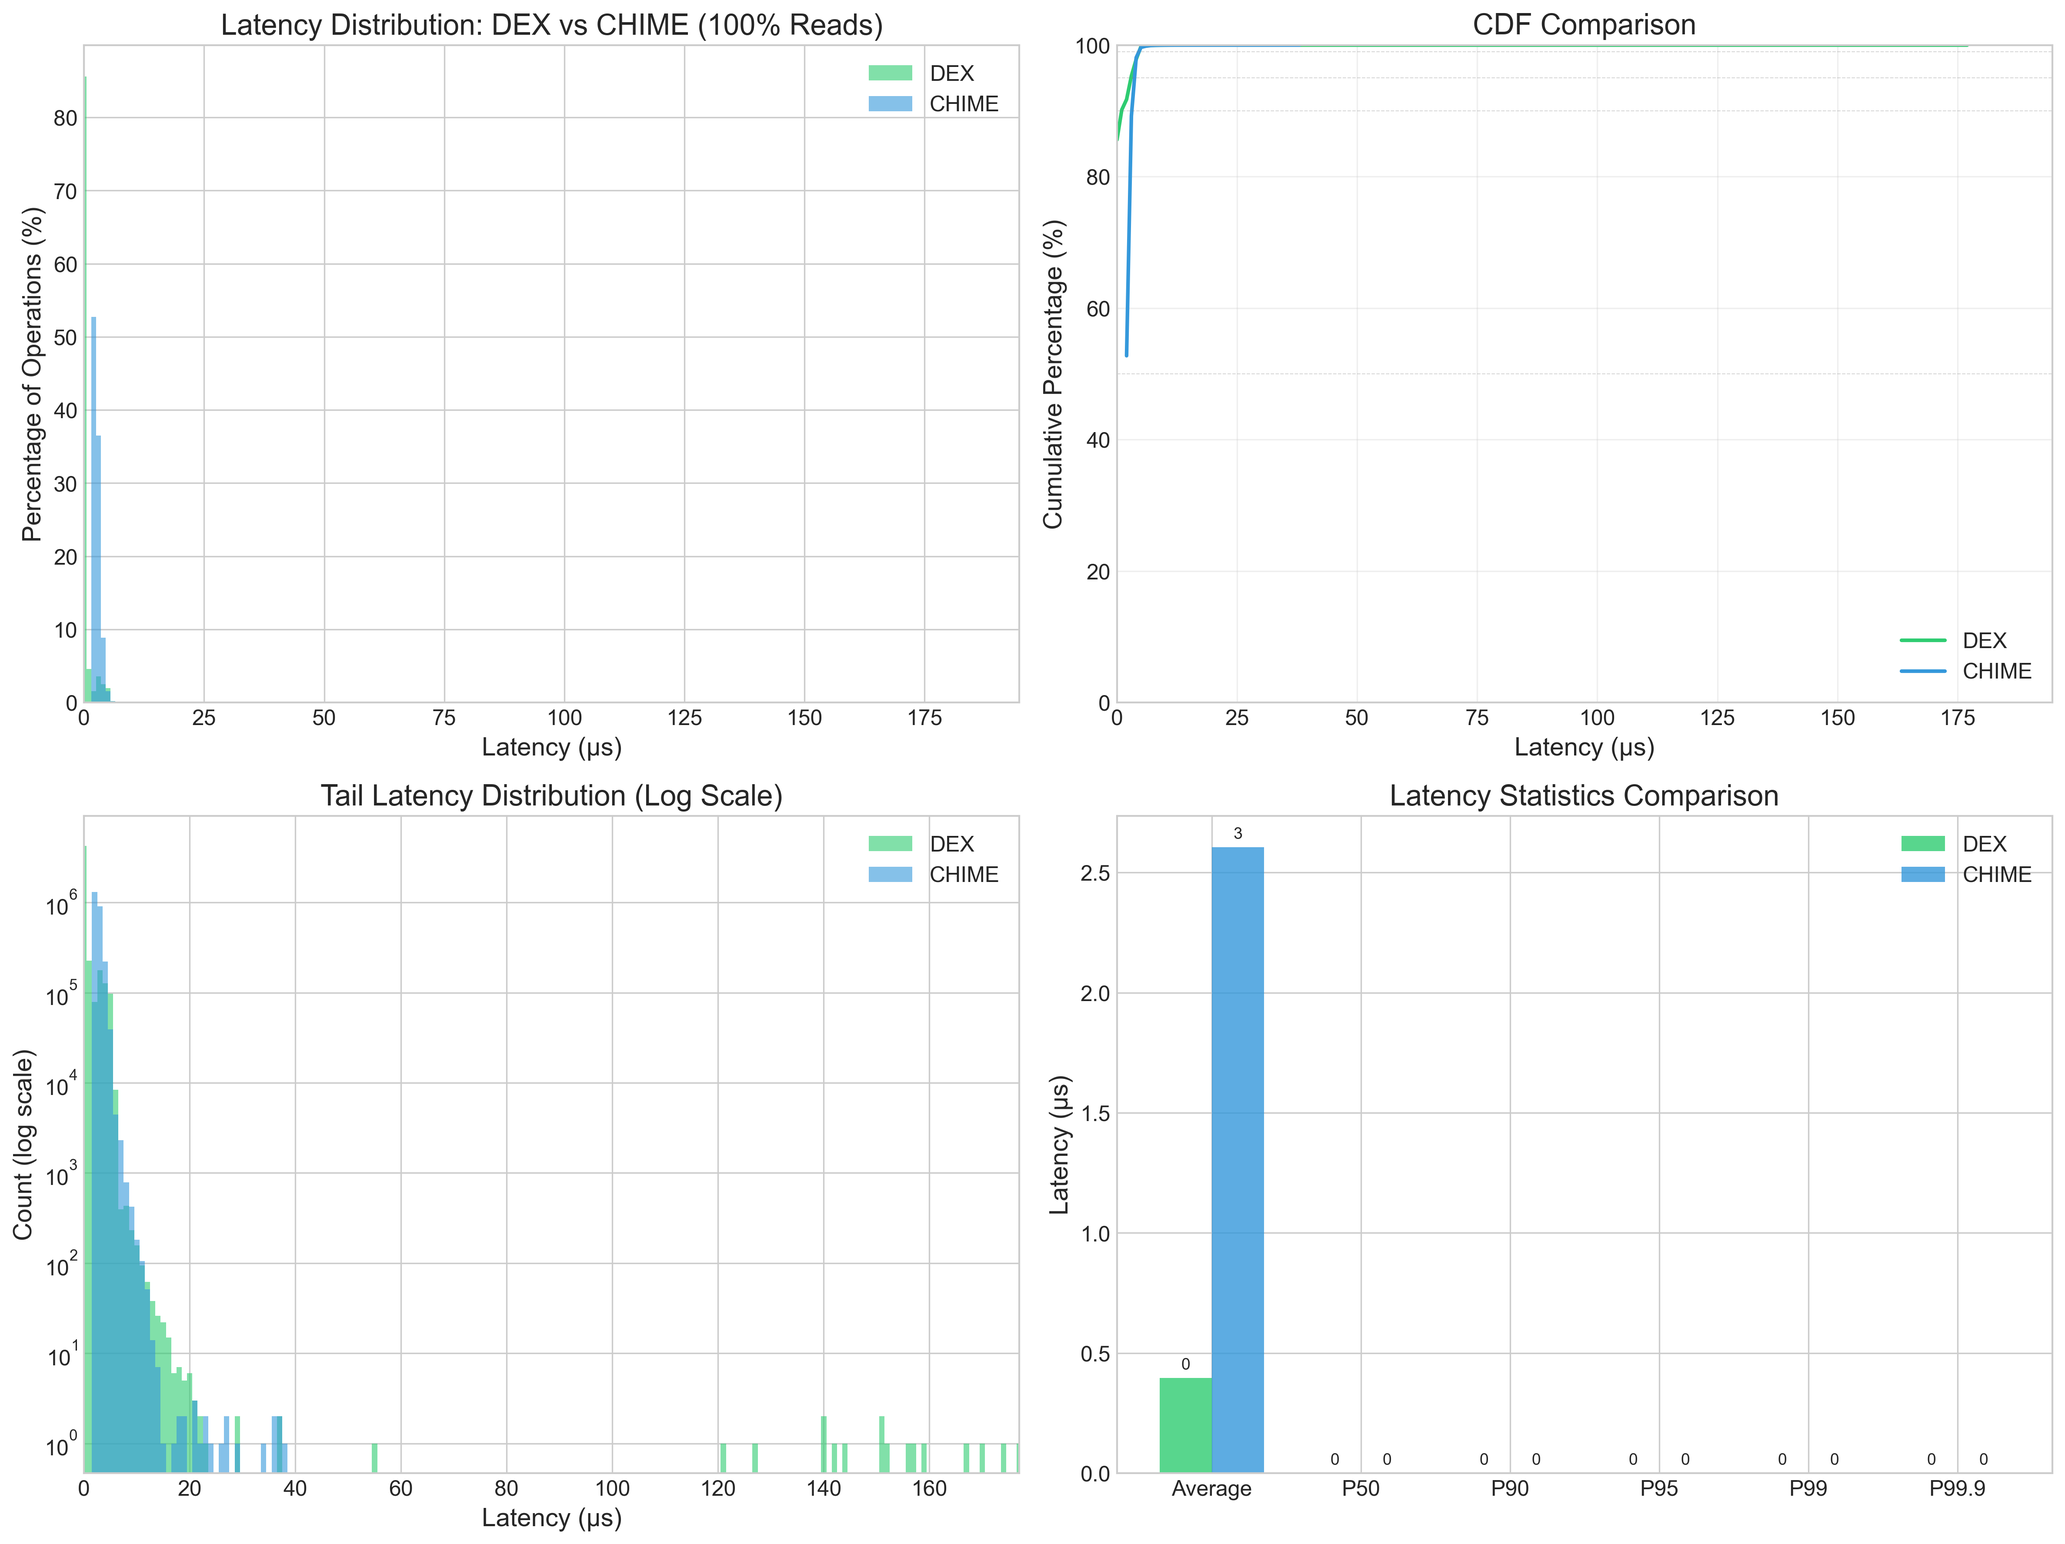
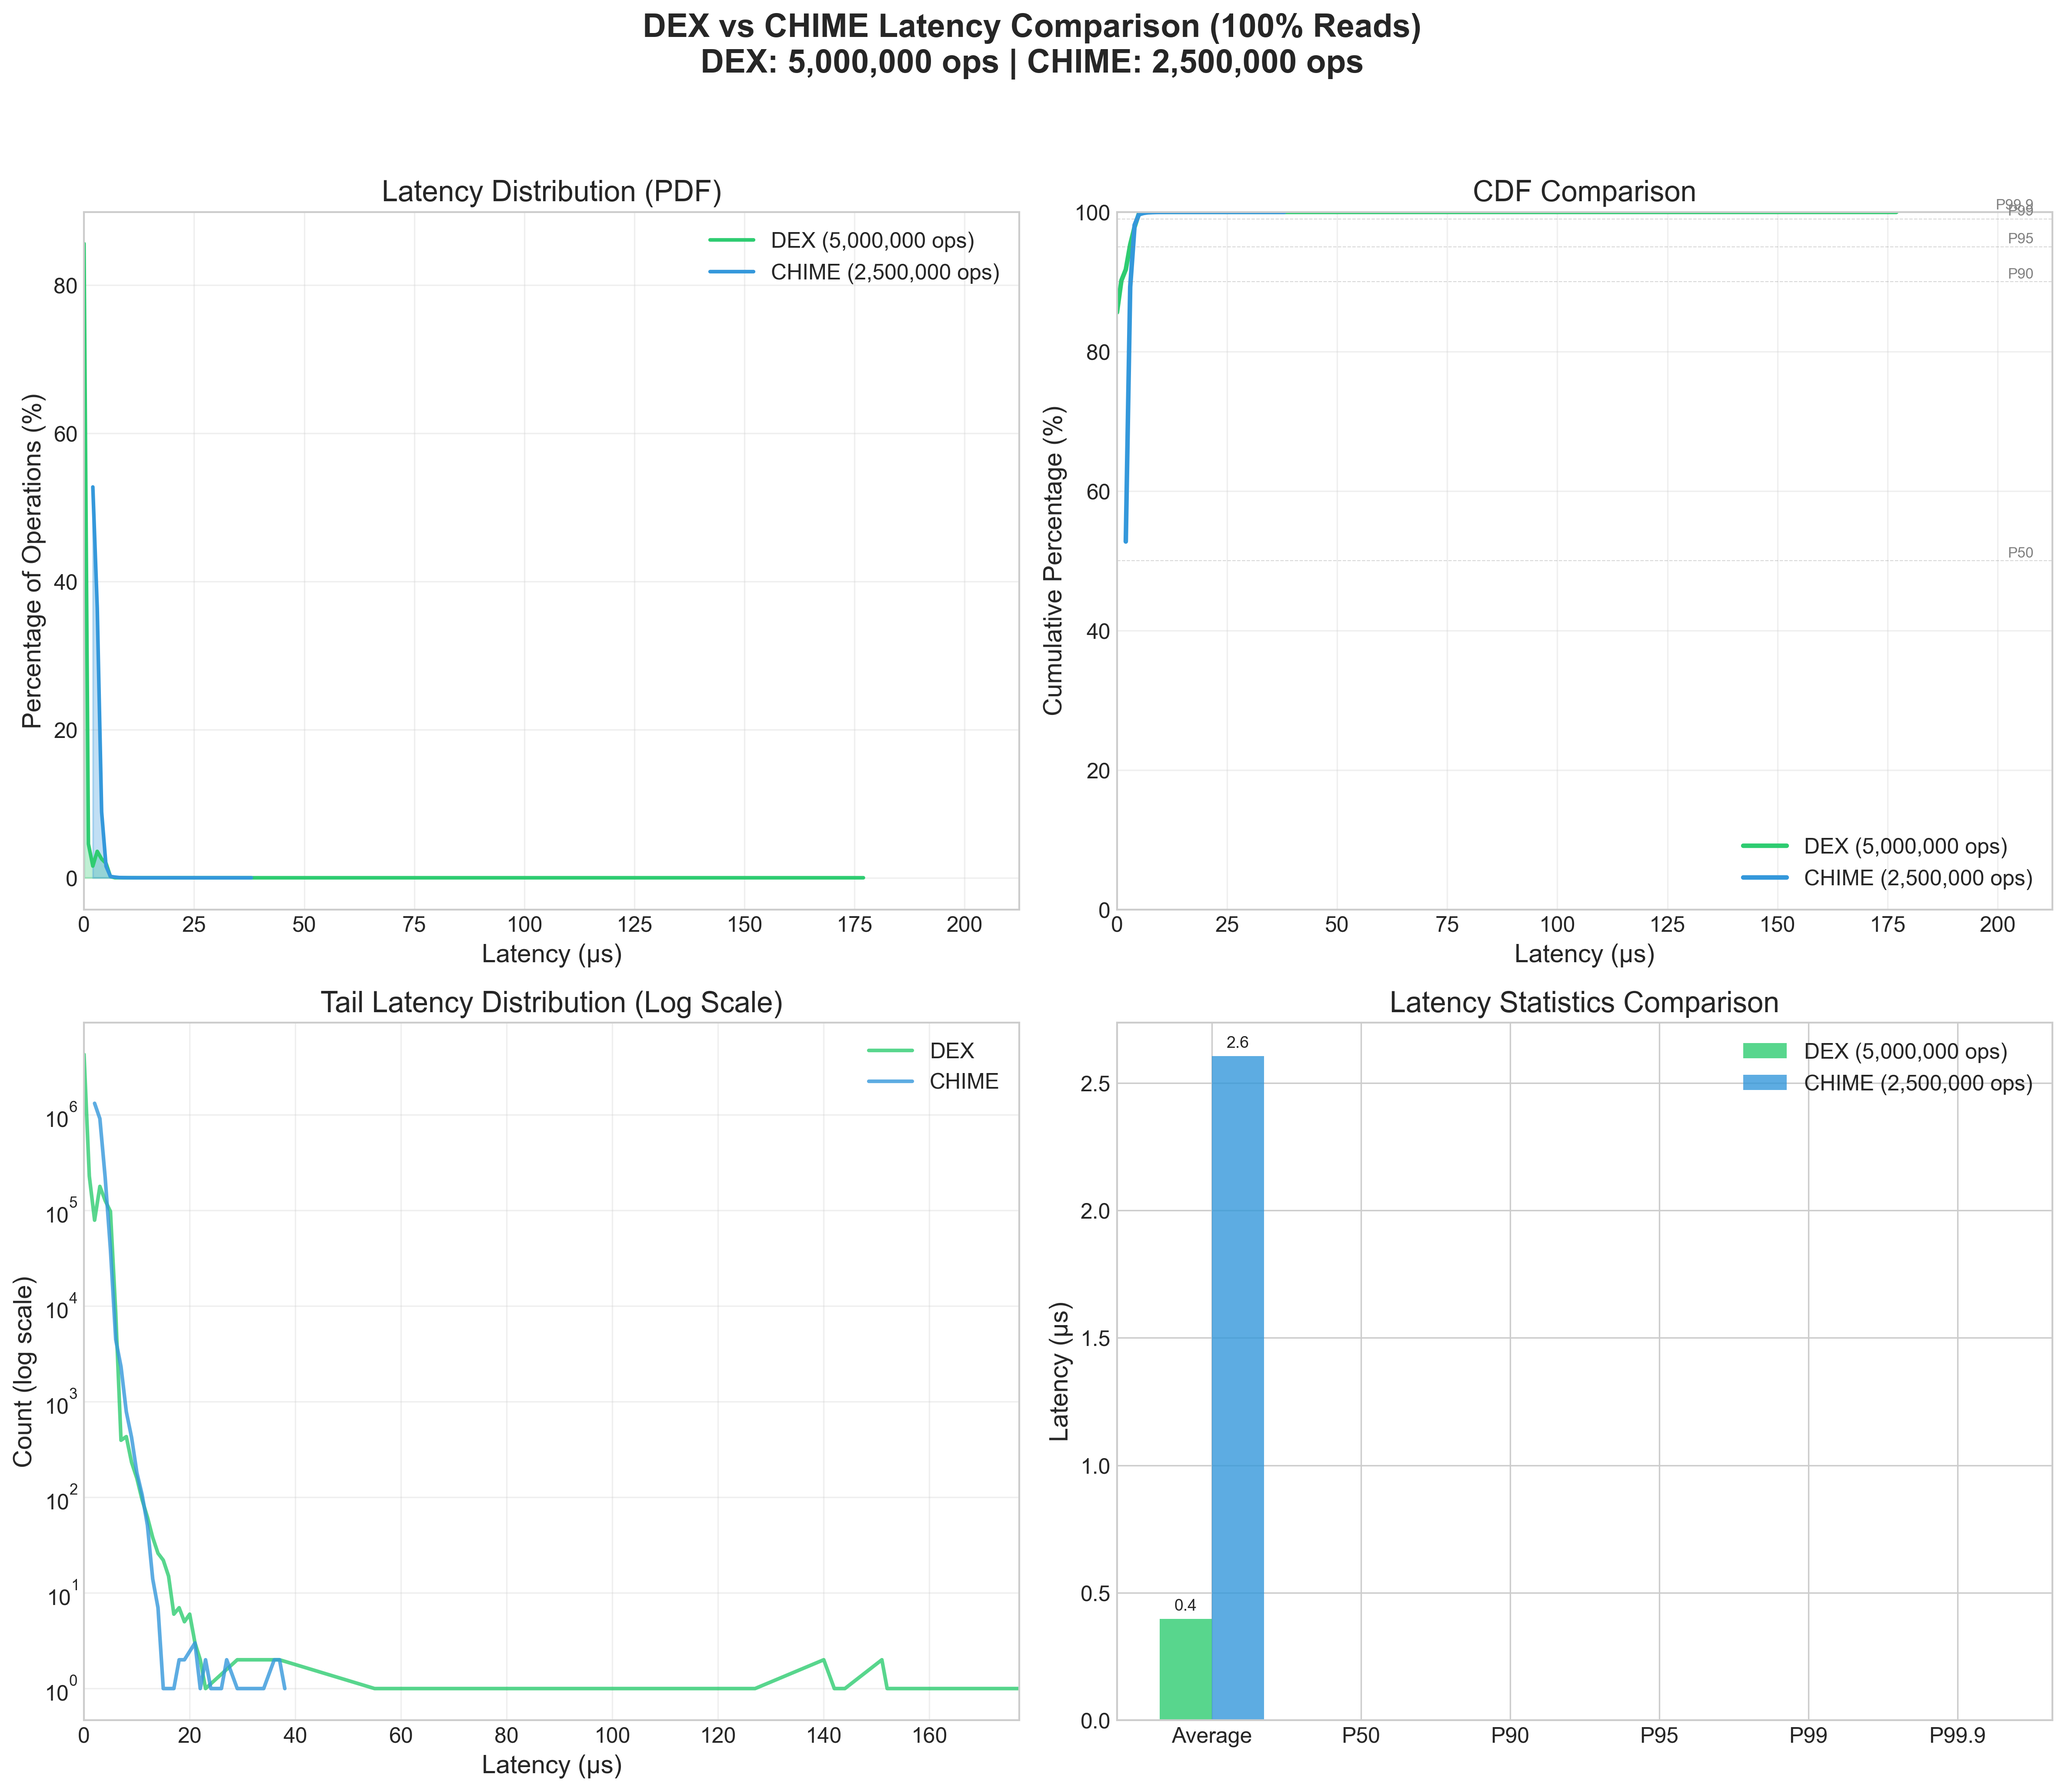
Fix CHIME: all nodes run same code like ycsb_test.cpp

diff --git a/experiments/latency_comparison/plot_latency_comparison.py b/experiments/latency_comparison/plot_latency_comparison.py
@@ -127,6 +127,7 @@ def expand_histogram(latencies, counts, max_samples=100000):
 def plot_histogram_comparison(dex_data, chime_data, output_path='latency_comparison.png'):
     """
     Create comprehensive latency comparison plots with operation counts.
+    Uses line plots for better visibility of the complete curve.
     """
     dex_lat, dex_cnt, dex_stats = dex_data
     chime_lat, chime_cnt, chime_stats = chime_data
@@ -150,6 +151,14 @@ def plot_histogram_comparison(dex_data, chime_data, output_path='latency_compari
     else:
         chime_lat_us = chime_lat.astype(float)
     
+    # Sort data by latency for proper line plotting
+    dex_sort_idx = np.argsort(dex_lat_us)
+    chime_sort_idx = np.argsort(chime_lat_us)
+    dex_lat_sorted = dex_lat_us[dex_sort_idx]
+    dex_cnt_sorted = dex_cnt[dex_sort_idx]
+    chime_lat_sorted = chime_lat_us[chime_sort_idx]
+    chime_cnt_sorted = chime_cnt[chime_sort_idx]
+    
     # Create figure with multiple subplots
     fig = plt.figure(figsize=(16, 14))
     
@@ -160,57 +169,62 @@ def plot_histogram_comparison(dex_data, chime_data, output_path='latency_compari
         fontsize=18, fontweight='bold', y=0.98
     )
     
-    # 1. Superimposed Histogram (main plot)
+    # 1. PDF Line Plot (main plot)
     ax1 = fig.add_subplot(2, 2, 1)
     
     # Determine reasonable x-axis range (up to P99.9)
     dex_p999 = dex_stats.get('p999', np.max(dex_lat_us))
     chime_p999 = chime_stats.get('p999', np.max(chime_lat_us))
-    max_lat = max(dex_p999, chime_p999) * 1.1
+    if dex_unit == 'ns':
+        dex_p999 /= 1000.0
+    if chime_unit == 'ns':
+        chime_p999 /= 1000.0
+    max_lat = max(dex_p999, chime_p999) * 1.2
+    if max_lat == 0:
+        max_lat = max(np.max(dex_lat_us), np.max(chime_lat_us)) * 1.1
     
     # Filter data for plotting
-    dex_mask = dex_lat_us <= max_lat
-    chime_mask = chime_lat_us <= max_lat
+    dex_mask = dex_lat_sorted <= max_lat
+    chime_mask = chime_lat_sorted <= max_lat
     
-    # Normalize to probability density
-    ax1.bar(dex_lat_us[dex_mask], dex_cnt[dex_mask] / dex_total * 100, 
-            width=0.5, alpha=0.6, label=f'DEX ({dex_total:,} ops)', color='#2ecc71', edgecolor='none')
-    ax1.bar(chime_lat_us[chime_mask], chime_cnt[chime_mask] / chime_total * 100, 
-            width=0.5, alpha=0.6, label=f'CHIME ({chime_total:,} ops)', color='#3498db', edgecolor='none')
+    # Normalize to probability density (percentage)
+    dex_pct = dex_cnt_sorted / dex_total * 100
+    chime_pct = chime_cnt_sorted / chime_total * 100
+    
+    # Line plots with filled area
+    ax1.fill_between(dex_lat_sorted[dex_mask], dex_pct[dex_mask], 
+                     alpha=0.3, color='#2ecc71')
+    ax1.plot(dex_lat_sorted[dex_mask], dex_pct[dex_mask], 
+             label=f'DEX ({dex_total:,} ops)', color='#2ecc71', linewidth=2)
+    
+    ax1.fill_between(chime_lat_sorted[chime_mask], chime_pct[chime_mask], 
+                     alpha=0.3, color='#3498db')
+    ax1.plot(chime_lat_sorted[chime_mask], chime_pct[chime_mask], 
+             label=f'CHIME ({chime_total:,} ops)', color='#3498db', linewidth=2)
     
     ax1.set_xlabel('Latency (μs)')
     ax1.set_ylabel('Percentage of Operations (%)')
-    ax1.set_title('Latency Distribution')
+    ax1.set_title('Latency Distribution (PDF)')
     ax1.legend(loc='upper right')
     ax1.set_xlim(0, max_lat)
-    
-    # Add percentile lines
-    for name, stats, color, ls in [('DEX', dex_stats, '#27ae60', '--'), ('CHIME', chime_stats, '#2980b9', ':')]:
-        p50 = stats.get('p50', 0)
-        p99 = stats.get('p99', 0)
-        if stats.get('unit', 'us') == 'ns':
-            p50 /= 1000.0
-            p99 /= 1000.0
-        if p50 > 0:
-            ax1.axvline(x=p50, color=color, linestyle=ls, alpha=0.7, linewidth=1.5, label=f'{name} P50')
-        if p99 > 0:
-            ax1.axvline(x=p99, color=color, linestyle=ls, alpha=0.5, linewidth=1.5)
+    ax1.grid(True, alpha=0.3)
     
     # 2. CDF Comparison
     ax2 = fig.add_subplot(2, 2, 2)
     
     # Calculate CDFs
-    dex_cdf = np.cumsum(dex_cnt) / dex_total * 100
-    chime_cdf = np.cumsum(chime_cnt) / chime_total * 100
+    dex_cdf = np.cumsum(dex_cnt_sorted) / dex_total * 100
+    chime_cdf = np.cumsum(chime_cnt_sorted) / chime_total * 100
     
-    ax2.plot(dex_lat_us[dex_mask], dex_cdf[dex_mask], 
-             label=f'DEX ({dex_total:,} ops)', color='#2ecc71', linewidth=2)
-    ax2.plot(chime_lat_us[chime_mask], chime_cdf[chime_mask], 
-             label=f'CHIME ({chime_total:,} ops)', color='#3498db', linewidth=2)
+    ax2.plot(dex_lat_sorted[dex_mask], dex_cdf[dex_mask], 
+             label=f'DEX ({dex_total:,} ops)', color='#2ecc71', linewidth=2.5)
+    ax2.plot(chime_lat_sorted[chime_mask], chime_cdf[chime_mask], 
+             label=f'CHIME ({chime_total:,} ops)', color='#3498db', linewidth=2.5)
     
     # Add horizontal lines for common percentiles
     for p in [50, 90, 95, 99, 99.9]:
         ax2.axhline(y=p, color='gray', linestyle='--', alpha=0.3, linewidth=0.5)
+        ax2.text(max_lat * 0.98, p + 0.5, f'P{p}', fontsize=8, color='gray', ha='right')
     
     ax2.set_xlabel('Latency (μs)')
     ax2.set_ylabel('Cumulative Percentage (%)')
@@ -220,18 +234,25 @@ def plot_histogram_comparison(dex_data, chime_data, output_path='latency_compari
     ax2.set_ylim(0, 100)
     ax2.grid(True, alpha=0.3)
     
-    # 3. Log-scale histogram for tail latency
+    # 3. Log-scale line plot for tail latency
     ax3 = fig.add_subplot(2, 2, 3)
     
-    ax3.bar(dex_lat_us, dex_cnt, width=0.5, alpha=0.6, label=f'DEX', color='#2ecc71', edgecolor='none')
-    ax3.bar(chime_lat_us, chime_cnt, width=0.5, alpha=0.6, label=f'CHIME', color='#3498db', edgecolor='none')
+    # Use wider range for tail view
+    tail_max = min(max(np.max(dex_lat_us), np.max(chime_lat_us)), 1000)
+    dex_tail_mask = dex_lat_sorted <= tail_max
+    chime_tail_mask = chime_lat_sorted <= tail_max
+    
+    ax3.semilogy(dex_lat_sorted[dex_tail_mask], dex_cnt_sorted[dex_tail_mask], 
+                 label='DEX', color='#2ecc71', linewidth=2, alpha=0.8)
+    ax3.semilogy(chime_lat_sorted[chime_tail_mask], chime_cnt_sorted[chime_tail_mask], 
+                 label='CHIME', color='#3498db', linewidth=2, alpha=0.8)
     
     ax3.set_xlabel('Latency (μs)')
     ax3.set_ylabel('Count (log scale)')
     ax3.set_title('Tail Latency Distribution (Log Scale)')
-    ax3.set_yscale('log')
     ax3.legend(loc='upper right')
-    ax3.set_xlim(0, min(max(np.max(dex_lat_us), np.max(chime_lat_us)), 10000))
+    ax3.set_xlim(0, tail_max)
+    ax3.grid(True, alpha=0.3)
     
     # 4. Statistics comparison bar chart
     ax4 = fig.add_subplot(2, 2, 4)
@@ -287,18 +308,27 @@ def plot_histogram_comparison(dex_data, chime_data, output_path='latency_compari
     # Also save individual plots
     base_name = output_path.rsplit('.', 1)[0]
     
-    # Save histogram only with operation counts
+    # Save PDF line plot with operation counts
     fig_hist, ax_hist = plt.subplots(figsize=(12, 7))
-    ax_hist.bar(dex_lat_us[dex_mask], dex_cnt[dex_mask] / dex_total * 100, 
-                width=0.5, alpha=0.7, label=f'DEX ({dex_total:,} ops)', color='#2ecc71', edgecolor='none')
-    ax_hist.bar(chime_lat_us[chime_mask], chime_cnt[chime_mask] / chime_total * 100, 
-                width=0.5, alpha=0.7, label=f'CHIME ({chime_total:,} ops)', color='#3498db', edgecolor='none')
+    
+    # Line plot with filled area for better visibility
+    ax_hist.fill_between(dex_lat_sorted[dex_mask], dex_pct[dex_mask], 
+                         alpha=0.3, color='#2ecc71')
+    ax_hist.plot(dex_lat_sorted[dex_mask], dex_pct[dex_mask], 
+                 label=f'DEX ({dex_total:,} ops)', color='#2ecc71', linewidth=2.5)
+    
+    ax_hist.fill_between(chime_lat_sorted[chime_mask], chime_pct[chime_mask], 
+                         alpha=0.3, color='#3498db')
+    ax_hist.plot(chime_lat_sorted[chime_mask], chime_pct[chime_mask], 
+                 label=f'CHIME ({chime_total:,} ops)', color='#3498db', linewidth=2.5)
+    
     ax_hist.set_xlabel('Latency (μs)', fontsize=14)
     ax_hist.set_ylabel('Percentage of Operations (%)', fontsize=14)
     ax_hist.set_title(f'Latency Distribution: DEX vs CHIME (100% Reads)\n'
                       f'DEX: {dex_total:,} ops | CHIME: {chime_total:,} ops', fontsize=16)
     ax_hist.legend(loc='upper right', fontsize=12)
     ax_hist.set_xlim(0, max_lat)
+    ax_hist.grid(True, alpha=0.3)
     
     # Add text box with summary stats
     dex_avg = dex_stats.get('avg', 0)

diff --git a/CHIME/test/microbench_latency.cpp b/CHIME/test/microbench_latency.cpp
@@ -576,7 +576,7 @@ void parse_args(int argc, char *argv[]) {
 }
 
 // ============================================
-// Main
+// Main - ALL nodes run same code (like ycsb_test.cpp)
 // ============================================
 int main(int argc, char *argv[]) {
     parse_args(argc, argv);
@@ -584,7 +584,7 @@ int main(int argc, char *argv[]) {
     // Initialize latency histograms
     memset(latency_histogram, 0, sizeof(latency_histogram));
     
-    // Initialize DSM
+    // Initialize DSM - same for all nodes
     DSMConfig config;
     config.machineNR = kNodeCount;
     config.threadNR = kMaxThread;
@@ -593,43 +593,24 @@ int main(int argc, char *argv[]) {
     node_id = dsm->getMyNodeID();
     kThreadCount = kMaxThread;
     
-    // In CHIME: Node 0 is MEMORY server, Nodes 1+ are COMPUTE nodes
-    // (opposite of DEX where node 0 is compute)
-    if (node_id < MEMORY_NODE_NUM) {
-        printf("Node %d: Memory node\n", node_id);
-        
-        // Memory node needs to register and create tree for root initialization
-        bindCore(0);
-        dsm->registerThread();
-        
-        // Create tree with root initialization (only memory node does this)
-        Tree* mem_tree = new Tree(dsm, 0, true);
-        printf("Node %d: Tree root initialized\n", node_id);
-        
-        // Memory node participates in barriers matching compute node
-        dsm->barrier("benchmark");      // Initial sync
-        dsm->barrier("load_finish");    // After bulk load
-        dsm->barrier("warmup_finish");  // After warmup
-        dsm->barrier("fin");            // Final sync
-        printf("Node %d: Memory node done\n", node_id);
-        return 0;
-    }
+    printf("Node %d starting (total nodes: %d)\n", node_id, kNodeCount);
     
-    printf("Node %d: Compute node, starting benchmark\n", node_id);
-    
-    // Use modulo to handle systems with fewer cores
+    // Bind core and register thread - same for all nodes
     int num_cpus = sysconf(_SC_NPROCESSORS_ONLN);
-    bindCore((kThreadCount * 2 + 1) % num_cpus);
+    int core_id = (kThreadCount * 2 + 1) % num_cpus;
+    bindCore(core_id);
     dsm->registerThread();
     
-    // Create tree - init_root=false for compute nodes since root is on memory node
-    // In CHIME, node 0 is memory server, so compute nodes should not init root
-    tree = new Tree(dsm, 0, false);
+    // Create tree - ALL nodes create tree, but only node 0 initializes root
+    tree = new Tree(dsm);
+    printf("Node %d: Tree created\n", node_id);
     
-    // Generate workload
+    // Generate workload - ALL nodes generate workload
     generate_workload();
     
-    dsm->barrier("benchmark");  // Initial sync - matches ycsb_test
+    // Initial barrier - ALL nodes must reach this
+    dsm->barrier("benchmark");
+    printf("Node %d: initial barrier passed\n", node_id);
     
     // Launch threads
     for (int i = 0; i < kThreadCount; ++i) {
@@ -641,6 +622,7 @@ int main(int argc, char *argv[]) {
         usleep(1000);
     }
     dsm->barrier("load_finish");  // Sync after bulk load
+    printf("Node %d: bulk load barrier passed\n", node_id);
     warmup_cnt.store(0);  // Allow threads to proceed
     
     // Wait for warmup to complete (signaled by warmup_cnt == -2)
@@ -648,6 +630,7 @@ int main(int argc, char *argv[]) {
         usleep(1000);
     }
     dsm->barrier("warmup_finish");  // Sync after warmup
+    printf("Node %d: warmup barrier passed\n", node_id);
     ready.store(true);  // Signal threads to start measurement
     
     // Wait for all threads to be ready for measurement
@@ -655,7 +638,7 @@ int main(int argc, char *argv[]) {
         usleep(100);
     }
     
-    printf("All threads ready, starting measurement...\n");
+    printf("Node %d: All threads ready, starting measurement...\n", node_id);
     ready_to_report.store(true);
     
     // Wait for completion
@@ -672,21 +655,20 @@ int main(int argc, char *argv[]) {
     printf("\n========== RESULTS ==========\n");
     printf("Node %d throughput: %.2f Mops/s\n", node_id, total_throughput / 1e6);
     
-    // Aggregate across cluster
-    uint64_t cluster_tp = dsm->sum((uint64_t)total_throughput);
-    if (node_id == 0) {
-        printf("Cluster throughput: %.2f Mops/s\n", cluster_tp / 1e6);
+    // Save latency on compute node only (node 1 in 2-node setup)
+    // Node 0 is memory server, node 1 is where we measure latency
+    if (node_id == 1) {
         save_latency_histogram("chime_latency.dat");
     }
     
-    dsm->barrier("fin");  // Final sync - matches ycsb_test
+    dsm->barrier("fin");  // Final sync
     
     // Cleanup
-    delete[] bulk_array;
-    delete[] warmup_array;
-    delete[] workload_array;
+    if (bulk_array) delete[] bulk_array;
+    if (warmup_array) delete[] warmup_array;
+    if (workload_array) delete[] workload_array;
     if (zipf_gen) delete zipf_gen;
     
-    printf("[END]\n");
+    printf("Node %d: [END]\n", node_id);
     return 0;
 }
